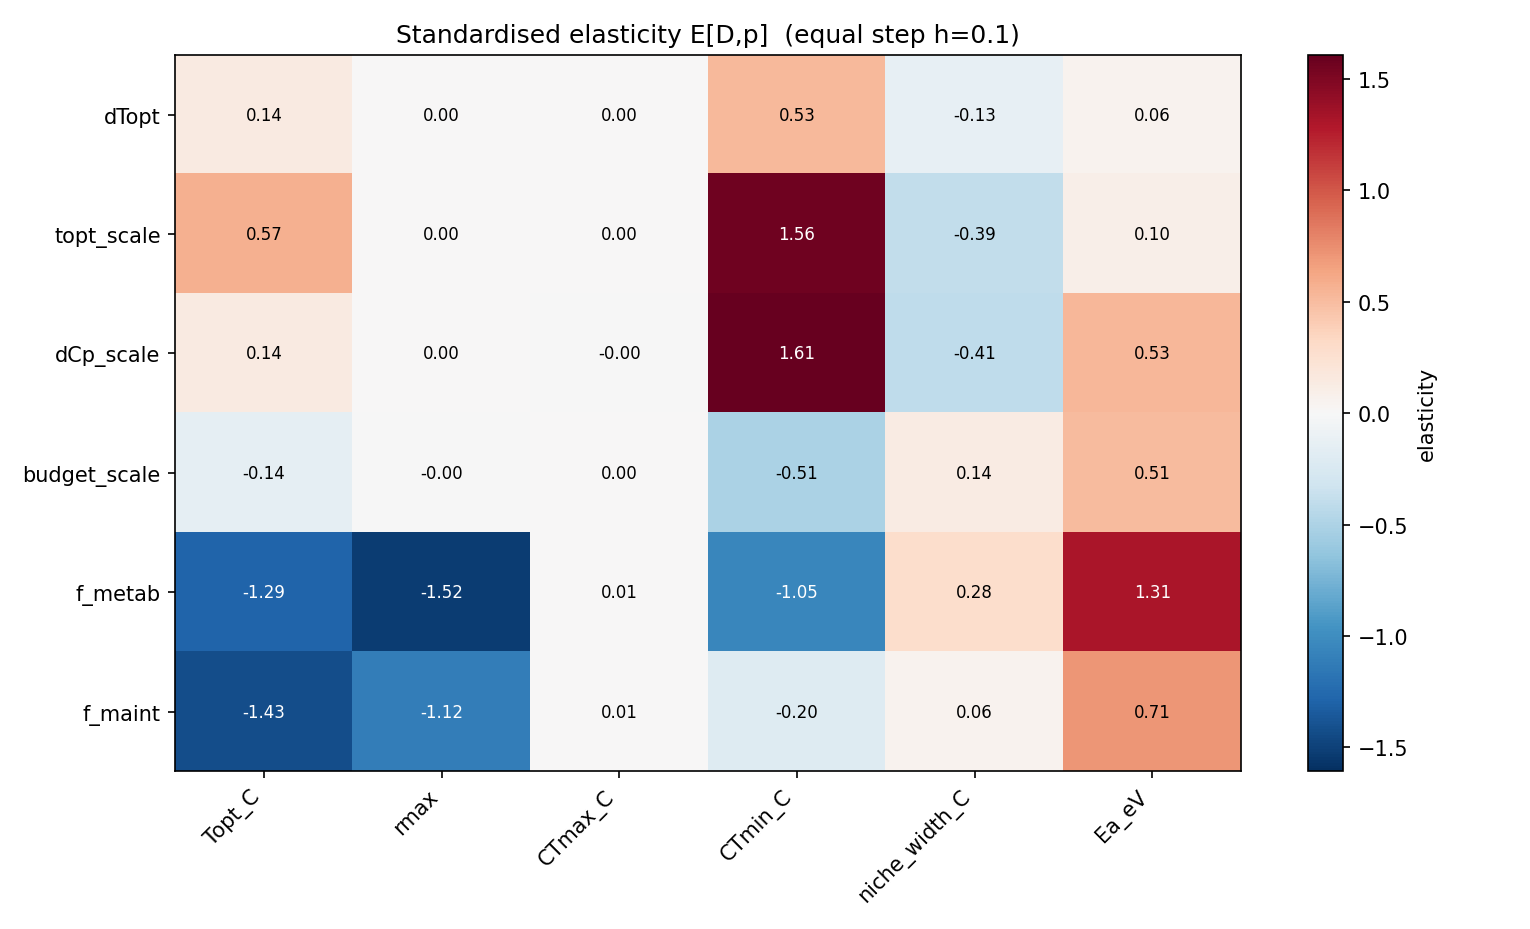
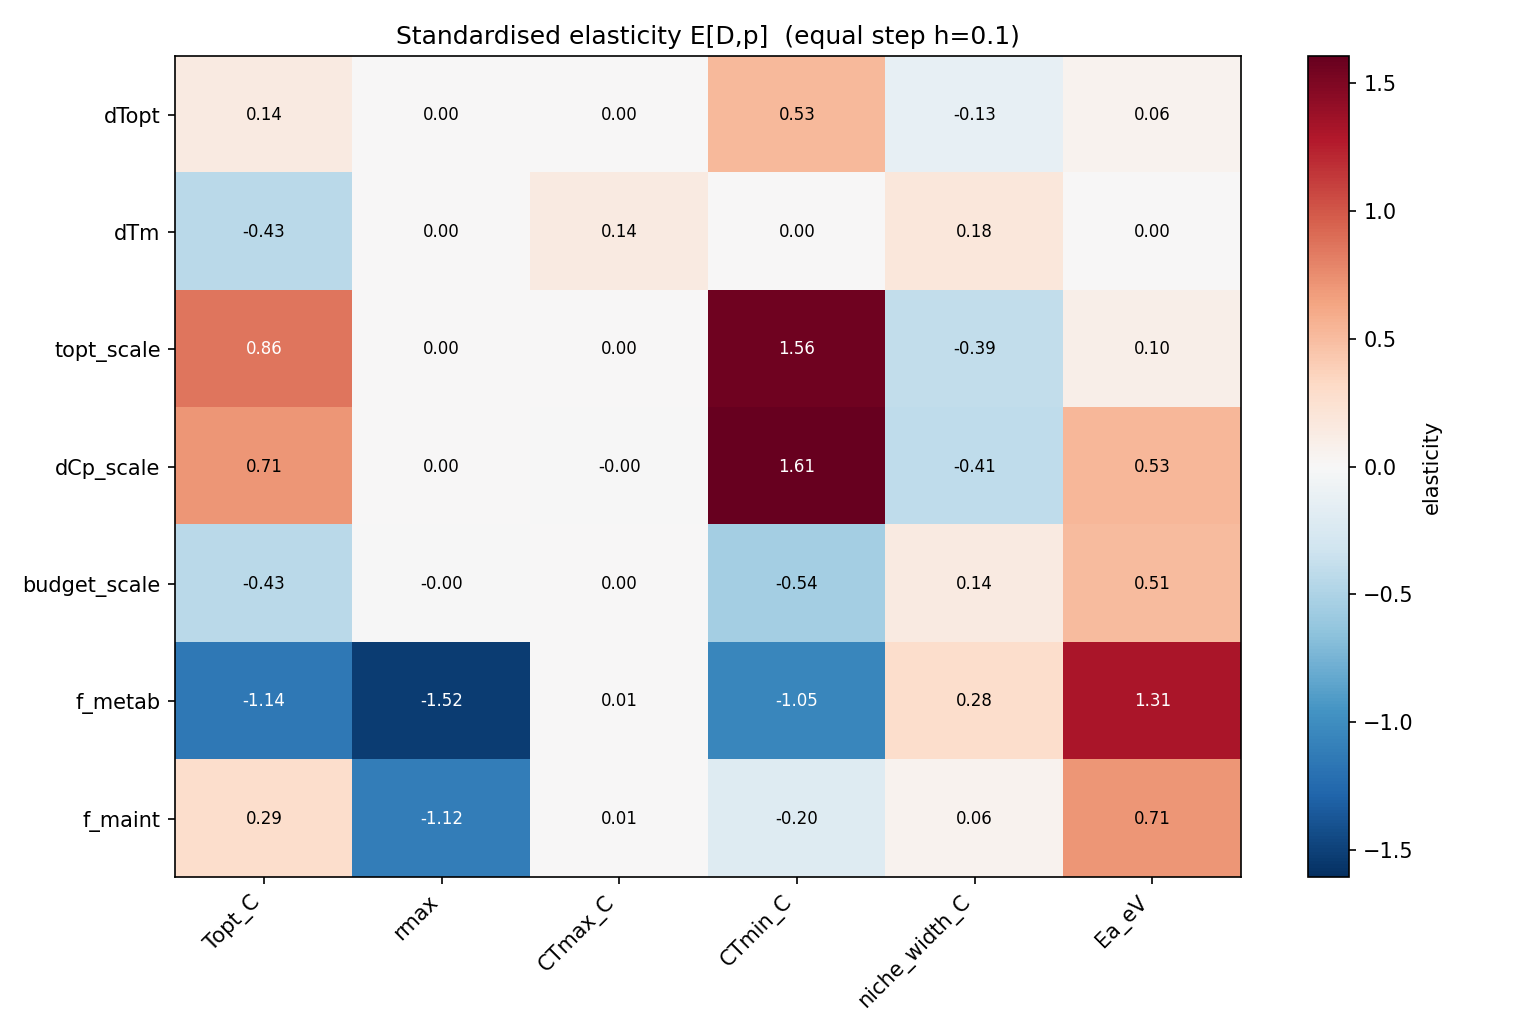
Tm in elasticity + decomposition
Adds dTm as a standardised elasticity input (step = h*sd(Tm)=h*6.13K) and
maps it through _make_perturbation so the decomposition envelope axis can
perturb it too. Re-ran elasticity on eciML1515: dTm is the top (and only
meaningful) driver of CTmax (E=+0.14); rmax stays allocation-led
(f_metab=-1.52), Ea/Topt coupled to allocation+kinetics. Records the dTm
reference scale in reference_scales.json.

diff --git a/src/etcgem/sensitivity.py b/src/etcgem/sensitivity.py
@@ -42,6 +42,7 @@ def _make_perturbation(sample: Dict[str, float], default_budget: float,
         dTopt=sample.get("dTopt", 0.0),
         topt_scale=sample.get("topt_scale", 1.0),
         dCp_scale=sample.get("dCp_scale", 1.0),
+        dTm=sample.get("dTm", 0.0),
     )
     if "budget_scale" in sample:
         p.budget = default_budget * sample["budget_scale"]
@@ -184,17 +185,21 @@ class ElasticityResult:
 
 
 def _elasticity_pert(inp: str, signed_h: float, default_budget: float,
-                     dtopt_ref: float, f_metab_nom, f_maint_nom, group_names):
+                     dtopt_ref: float, f_metab_nom, f_maint_nom, group_names,
+                     dtm_ref: float = 0.0):
     """Build the Perturbation for one input at a standardised signed step.
 
-    Multiplicative inputs (nominal 1) move to 1+signed_h. The additive dTopt shift
-    (nominal 0) moves by signed_h * dtopt_ref, where dtopt_ref is the sd of the
-    per-enzyme Topt distribution (so it is 'h of a natural temperature scale',
-    comparable to an h fractional move of a multiplicative dial). Sector fractions
-    move to nominal*(1+signed_h); set_allocation renormalises the complementary
-    biosynthesis sector (f_bio = 1 - f_metab - f_maint) so the budget still sums."""
+    Multiplicative inputs (nominal 1) move to 1+signed_h. The additive dTopt and
+    dTm shifts (nominal 0) move by signed_h * (their reference scale) -- the sd of
+    the per-enzyme Topt / Tm distribution respectively (so it is 'h of a natural
+    temperature scale', comparable to an h fractional move of a multiplicative
+    dial). Sector fractions move to nominal*(1+signed_h); set_allocation
+    renormalises the complementary biosynthesis sector (f_bio = 1 - f_metab -
+    f_maint) so the budget still sums."""
     if inp == "dTopt":
         return Perturbation(dTopt=signed_h * dtopt_ref)
+    if inp == "dTm":
+        return Perturbation(dTm=signed_h * dtm_ref)
     if inp == "topt_scale":
         return Perturbation(topt_scale=1.0 + signed_h)
     if inp == "dCp_scale":
@@ -226,6 +231,8 @@ def run_elasticity(pm, temps_C: Sequence[float], inputs: Sequence[str],
     default_budget = ec.default_budget
     dtopt_ref = float(np.std(np.asarray(ec._Topt, float))) if getattr(ec, "_Topt", None) is not None \
         and len(ec._Topt) else 5.0
+    dtm_ref = float(np.std(np.asarray(ec._Tm, float))) if getattr(ec, "_Tm", None) is not None \
+        and len(ec._Tm) else 5.0
     sec = getattr(ec, "_sectors", None)
     f_metab_nom = sec["f_metab_nom"] if sec else None
     f_maint_nom = sec["f_maint_nom"] if sec else None
@@ -236,9 +243,9 @@ def run_elasticity(pm, temps_C: Sequence[float], inputs: Sequence[str],
     R = pd.DataFrame(index=list(inputs), columns=descs, dtype=float)
     for inp in inputs:
         dp = compute_tpc(pm, temps_C, _elasticity_pert(inp, +h, default_budget, dtopt_ref,
-                         f_metab_nom, f_maint_nom, group_names)).descriptors(crit_frac).as_dict()
+                         f_metab_nom, f_maint_nom, group_names, dtm_ref)).descriptors(crit_frac).as_dict()
         dm = compute_tpc(pm, temps_C, _elasticity_pert(inp, -h, default_budget, dtopt_ref,
-                         f_metab_nom, f_maint_nom, group_names)).descriptors(crit_frac).as_dict()
+                         f_metab_nom, f_maint_nom, group_names, dtm_ref)).descriptors(crit_frac).as_dict()
         for D in descs:
             delta = dp.get(D, np.nan) - dm.get(D, np.nan)
             R.loc[inp, D] = delta
@@ -246,10 +253,11 @@ def run_elasticity(pm, temps_C: Sequence[float], inputs: Sequence[str],
             E.loc[inp, D] = delta / (2.0 * h * Dn) if (Dn is not None and np.isfinite(Dn)
                                                        and abs(Dn) > 1e-9) else np.nan
     refs = {"h": h, "dTopt_reference_scale_K": round(dtopt_ref, 3),
+            "dTm_reference_scale_K": round(dtm_ref, 3),
             "sector_f_metab_nom": f_metab_nom, "sector_f_maint_nom": f_maint_nom,
             "inputs": list(inputs),
-            "note": "additive dTopt perturbed by +/- h*dTopt_reference_scale_K; "
-                    "multiplicative inputs by 1 +/- h; sector fractions by nominal*(1 +/- h) "
-                    "with f_bio renormalised."}
+            "note": "additive dTopt/dTm perturbed by +/- h*(their reference scale = sd of "
+                    "per-enzyme Topt/Tm); multiplicative inputs by 1 +/- h; sector fractions "
+                    "by nominal*(1 +/- h) with f_bio renormalised."}
     return ElasticityResult(list(inputs), descs, E, R,
                             {k: round(float(nom[k]), 4) for k in descs}, refs)